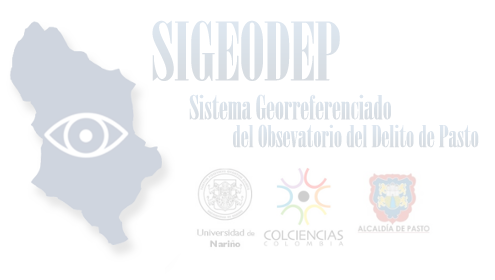
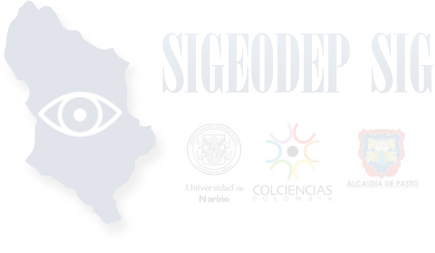
version 0.2

diff --git a/web/js/search.js b/web/js/search.js
@@ -9,6 +9,7 @@ var points, heatmap;
 var pointsOverlay, heatmapOverlay; //Grupos de capas para puntos / heatmap
 var vectorLayer, iconFeature, popup;
 var container, content, closer; // contenedores (divs) para el popup (mapa de puntos)
+var geoserverHost;
 
 $(function () {
     
@@ -16,6 +17,8 @@ $(function () {
     container = document.getElementById('popup');
     content = document.getElementById('popup-content');
     closer = document.getElementById('popup-closer');
+    
+    geoserverHost = 'http://' + location.host + '/geoserver/geocoder/wms';
 
     var bmapsRoads = new ol.layer.Tile({
         title: 'BingMaps Roads',
@@ -23,7 +26,7 @@ $(function () {
             key: 'AnyGyd4GaAzToU0sDaA0NaXDD88yChcUh8ySoNc32_ddxkrxkl9K5SIATkA8EpMn',
             imagerySet: 'Road'
         }),
-        visible: true
+        visible: false
     });
     /*Creacion capa base Bing Maps Aerial*/
     var bmapsAerial = new ol.layer.Tile({
@@ -39,6 +42,38 @@ $(function () {
         source: new ol.source.OSM(),
         visible: false
     });
+    
+    /*Creacion capa base Comunas*/
+    var communes = new ol.layer.Image({
+        title: 'Comunas',
+        source: new ol.source.ImageWMS({
+            ratio: 1,
+            url: geoserverHost,
+            params: {'FORMAT': 'image/png',
+                'VERSION': '1.1.1',
+                LAYERS: 'geocoder:communes',
+                STYLES: '',
+                env: 'opacity:0.4'
+            }
+        }),
+        visible: true
+    });
+
+    /*Creacion capa base Barrios*/
+    var neighborhoods = new ol.layer.Image({
+        title: 'Barrios',
+        source: new ol.source.ImageWMS({
+            ratio: 1,
+            url: geoserverHost,
+            params: {'FORMAT': 'image/png',
+                'VERSION': '1.1.1',
+                LAYERS: 'geocoder:neighborhoods',
+                STYLES: '',
+                env: 'opacity:0.4'
+            }
+        }),
+        visible: true
+    });
 
     /**
      * GRUPOS PARA LAYERSWITCHER
@@ -48,7 +83,12 @@ $(function () {
         title: 'Mapas Base',
         layers: [osmLayer, bmapsRoads, bmapsAerial]
     });
-
+    
+    var baseLayers = new ol.layer.Group({
+        title: 'Capas Base',
+        layers: [neighborhoods, communes]
+    });
+    
     /**
      * MAPA
      * @type ol.Map
@@ -75,7 +115,7 @@ $(function () {
             })
         ]),
         renderer: 'canvas', // Force the renderer to be used
-        layers: [baseMaps],
+        layers: [baseMaps, baseLayers],
         // Create a view centered on the specified location and zoom level
         view: new ol.View({
             center: [-8602509.5692, 134983.3435],

diff --git a/web/css/style.css b/web/css/style.css
@@ -10,7 +10,7 @@ and open the template in the editor.
 
 body {
     background-color: #ffffff;
-    font-size: 10px;
+    font-size: 10.5px;
     font-family: Verdana, "Verdana CE",  Arial, "Arial CE", "Lucida Grande CE", lucida, "Helvetica CE", sans-serif;
     color: #282828;
 }
@@ -37,10 +37,10 @@ a:link:hover, a:visited:hover  {
 }
 
 #formInjuries\:logo{
-    width: 100px;
-    height: 30px;
+    width: 134px;
+    height: 24px;
     display:block;
-    margin:-5px 0px -2px 0px;
+    margin:0px 0px 0px 0px;
 }
 
 #welcome {

diff --git a/web/js/injuries.js b/web/js/injuries.js
@@ -335,7 +335,7 @@ $(function () {
 function loadDataLayer() {
 
     removeComponents();
-    drawingLayer.getSource().clear();
+    //drawingLayer.getSource().clear();
     map.removeLayer(heatmapOverlay);
     map.removeLayer(pointsOverlay);
 
@@ -364,7 +364,6 @@ function loadDataLayer() {
  * @param {ol.source.DataSource} dataSource
  * @returns {loadPoints}
  */
-
 function loadPoints(geoserverParams) {
 
     var pointsOpacity = $('#formInjuries\\:pointsOpacity').val();

diff --git a/src/java/geocoder/controller/injuries/InjuriesCountMB.java b/src/java/geocoder/controller/injuries/InjuriesCountMB.java
@@ -31,6 +31,9 @@ import geocoder.model.dao.entityclasses.IndicatorsConfigurations;
 import geocoder.model.dao.sessionbeans.IndicatorsAddressesFacade;
 import geocoder.model.dao.sessionbeans.IndicatorsConfigurationsFacade;
 import geocoder.model.dao.sessionbeans.IndicatorsFacade;
+import javax.annotation.PostConstruct;
+import javax.faces.model.SelectItem;
+import javax.faces.model.SelectItemGroup;
 
 import org.joda.time.DateTime;
 import org.joda.time.Interval;
@@ -105,7 +108,7 @@ public class InjuriesCountMB {
     private boolean showEmpty = false;
     
     private boolean showInjuriesLayer = false; //mostrar mapa de puntos / calor
-    private int selectedCategoryForInjuries = 3;
+    private int selectedCategoryForInjuries = 1;
     private boolean continueProcess = true;
     
     private String mapType = "points";
@@ -137,6 +140,9 @@ public class InjuriesCountMB {
     private double neighborhoodsOpacityValue = 0.5;
     private double communesOpacityValue = 0.5;
     
+    private List<SelectItem> selectListCategories; 
+            
+    
     private Integer tuplesProcessed = 0;
     private StringBuilder sb;
     private CopyManager cpManager;
@@ -167,6 +173,29 @@ public class InjuriesCountMB {
         endDate.setDate(c.get(Calendar.DATE));
         endDate.setMonth(c.get(Calendar.MONTH));
         endDate.setYear(c.get(Calendar.YEAR) - 1900);
+        
+        
+    }
+    
+    
+    
+    @PostConstruct
+    public void loadCategories(){
+        SelectItemGroup fatalCategory = new SelectItemGroup("Fatales 1");
+        //SelectItem [] fatalCategories = new SelectItem[1];
+        //fatalCategories[0] = new SelectItem(3, "Casos por Lesion No Fatal");
+        fatalCategory.setSelectItems(new SelectItem[]{new SelectItem("3", "Lesiones No fatales"), new SelectItem("3", "Lesiones No fatales")});
+        
+        SelectItemGroup nonFatalCategory = new SelectItemGroup("No fatales 1");
+        //SelectItem[] nonFatalCategories = new SelectItem[1];
+        //nonFatalCategories[0] = new SelectItem(2, "EJEMPLO");
+        nonFatalCategory.setSelectItems(new SelectItem[]{new SelectItem("4", "Lesiones No fatales"), new SelectItem("3", "Lesiones No fatales")});
+        
+        selectListCategories = new ArrayList<SelectItem>();
+        
+        selectListCategories.add(fatalCategory);
+        selectListCategories.add(nonFatalCategory);
+    
     }
 
     /**
@@ -2416,7 +2445,8 @@ public class InjuriesCountMB {
         connectionJdbcMB.non_query(sql);
 
         //consulta espacial
-        sql = "SELECT \n"
+        sql = ""
+                + "SELECT \n"
                 + "	column_1, \n"
                 + "	column_2, \n"
                 + "	column_3, \n"
@@ -2436,7 +2466,6 @@ public class InjuriesCountMB {
                 + "	column_1, \n"
                 + "	column_2, \n"
                 + "	column_3 ";
-
         ResultSet rs = connectionJdbcMB.consult(sql);
         try {//actualizo el valor count de los registros currentIndicator.getIndicatorId() apartir de  currentIndicator.getIndicatorId()+100
             while (rs.next()) {
@@ -3166,6 +3195,14 @@ public class InjuriesCountMB {
         this.popupInfo = popupInfo;
     }
 
+    public List<SelectItem> getSelectListCategories() {
+        return selectListCategories;
+    }
+
+    public void setSelectListCategories(List<SelectItem> selectListCategories) {
+        this.selectListCategories = selectListCategories;
+    }
+    
     public void remoteLoadPointInfoProcess() {
 
         popupInfo = "Identificador de delito recibido: " + injuryIdForInfo;
